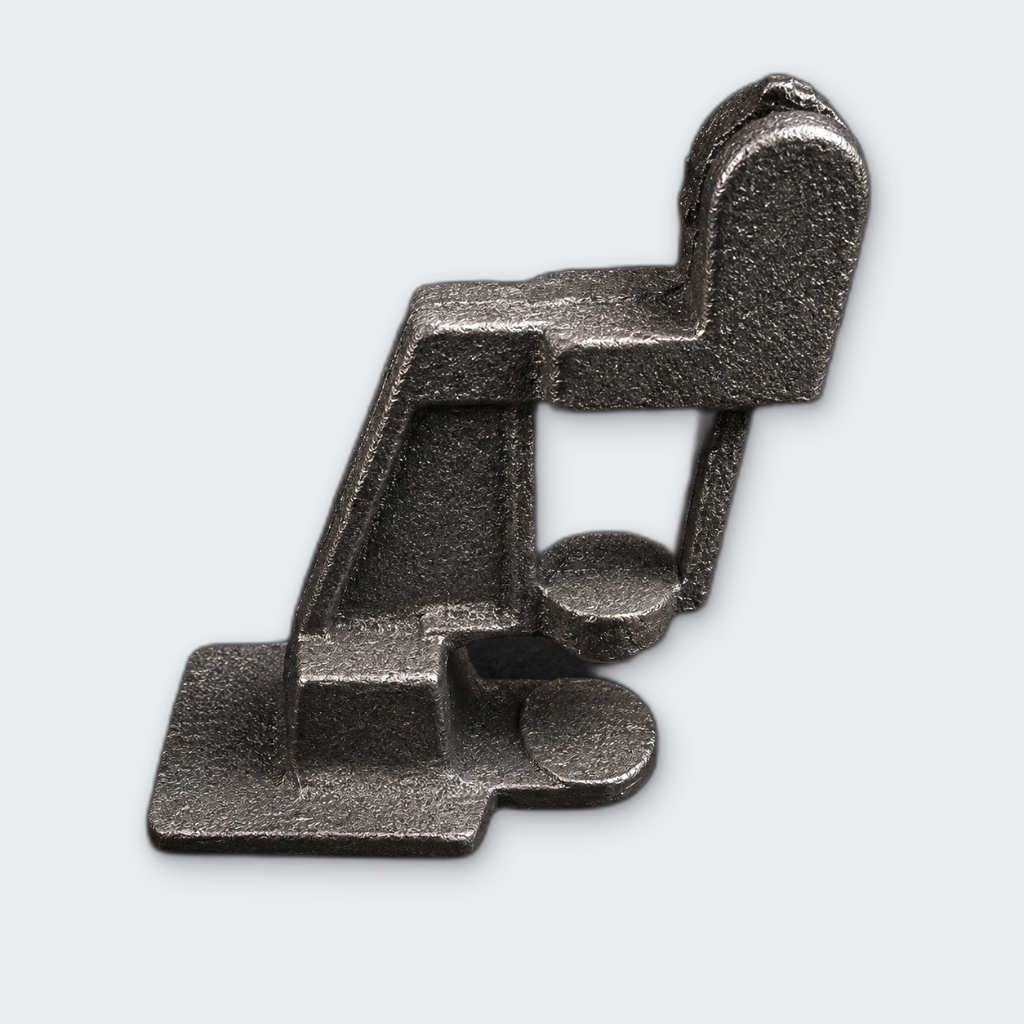
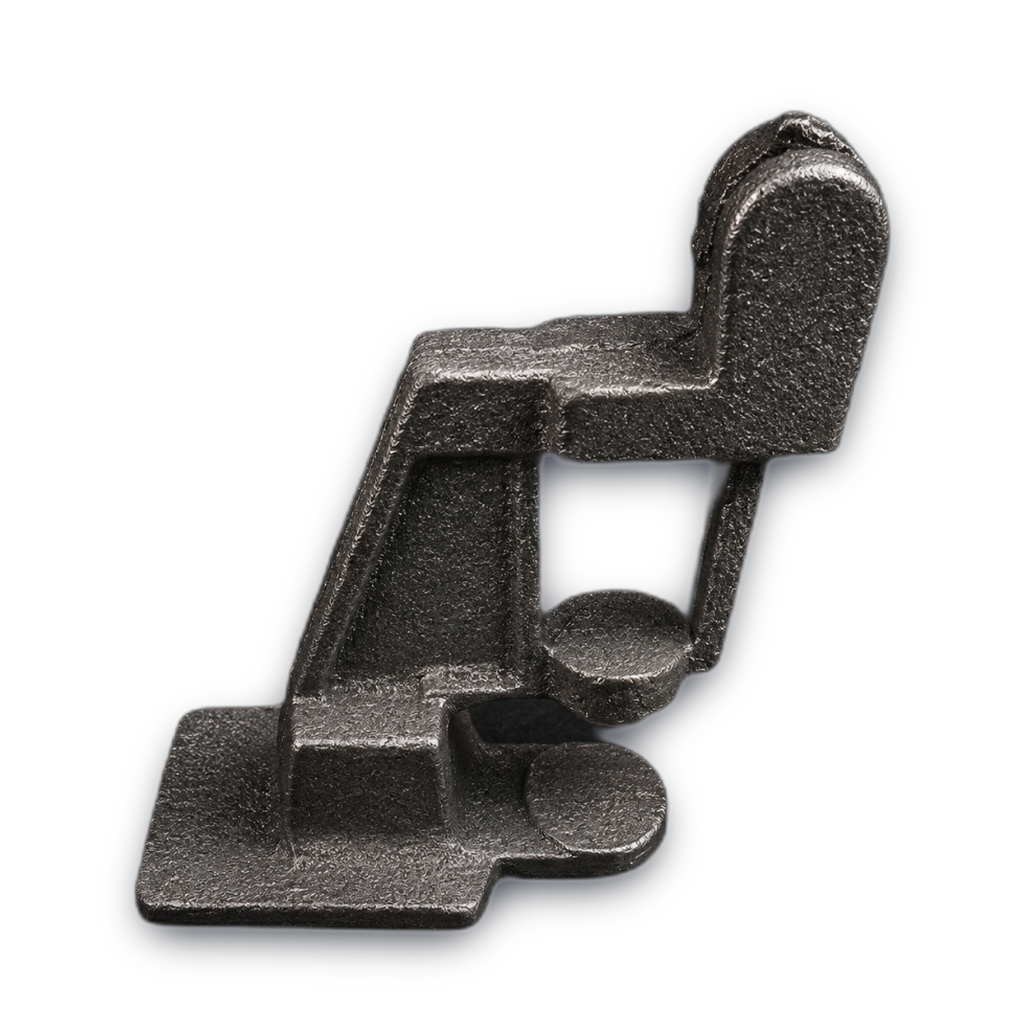
feat(enquiry): convert casting component to crisp studio cutout with realistic ground contact shadows for both dark and light modes in Enquiry to Delivery section

Changed region(s): [[0.125, 0.0625, 0.875, 0.9375]]

diff --git a/frontend/src/components/EnquiryToDeliverySection.tsx b/frontend/src/components/EnquiryToDeliverySection.tsx
@@ -155,19 +155,11 @@ export const EnquiryToDeliverySection: React.FC = () => {
                 
                 {/* The User-Provided Casting Image */}
                 <img
-                  src={getThemedImage('/images/enquiry-delivery-casting.jpg', isLight)}
+                  src={getThemedImage('/images/enquiry-delivery-casting.png', isLight)}
                   alt="Precision Cast Iron Component"
-                  className={`max-h-[82%] max-w-[82%] object-contain transform hover:scale-105 transition-transform duration-500 ${
+                  className={`max-h-[84%] max-w-[84%] object-contain transform hover:scale-105 transition-transform duration-500 ${
                     isLight ? 'drop-shadow-[0_12px_24px_rgba(0,0,0,0.12)]' : 'drop-shadow-[0_20px_35px_rgba(0,0,0,0.85)]'
                   }`}
-                  style={
-                    isLight
-                      ? undefined
-                      : {
-                          WebkitMaskImage: 'radial-gradient(ellipse 90% 90% at 50% 50%, black 70%, transparent 100%)',
-                          maskImage: 'radial-gradient(ellipse 90% 90% at 50% 50%, black 70%, transparent 100%)',
-                        }
-                  }
                 />
               </div>
             </div>
